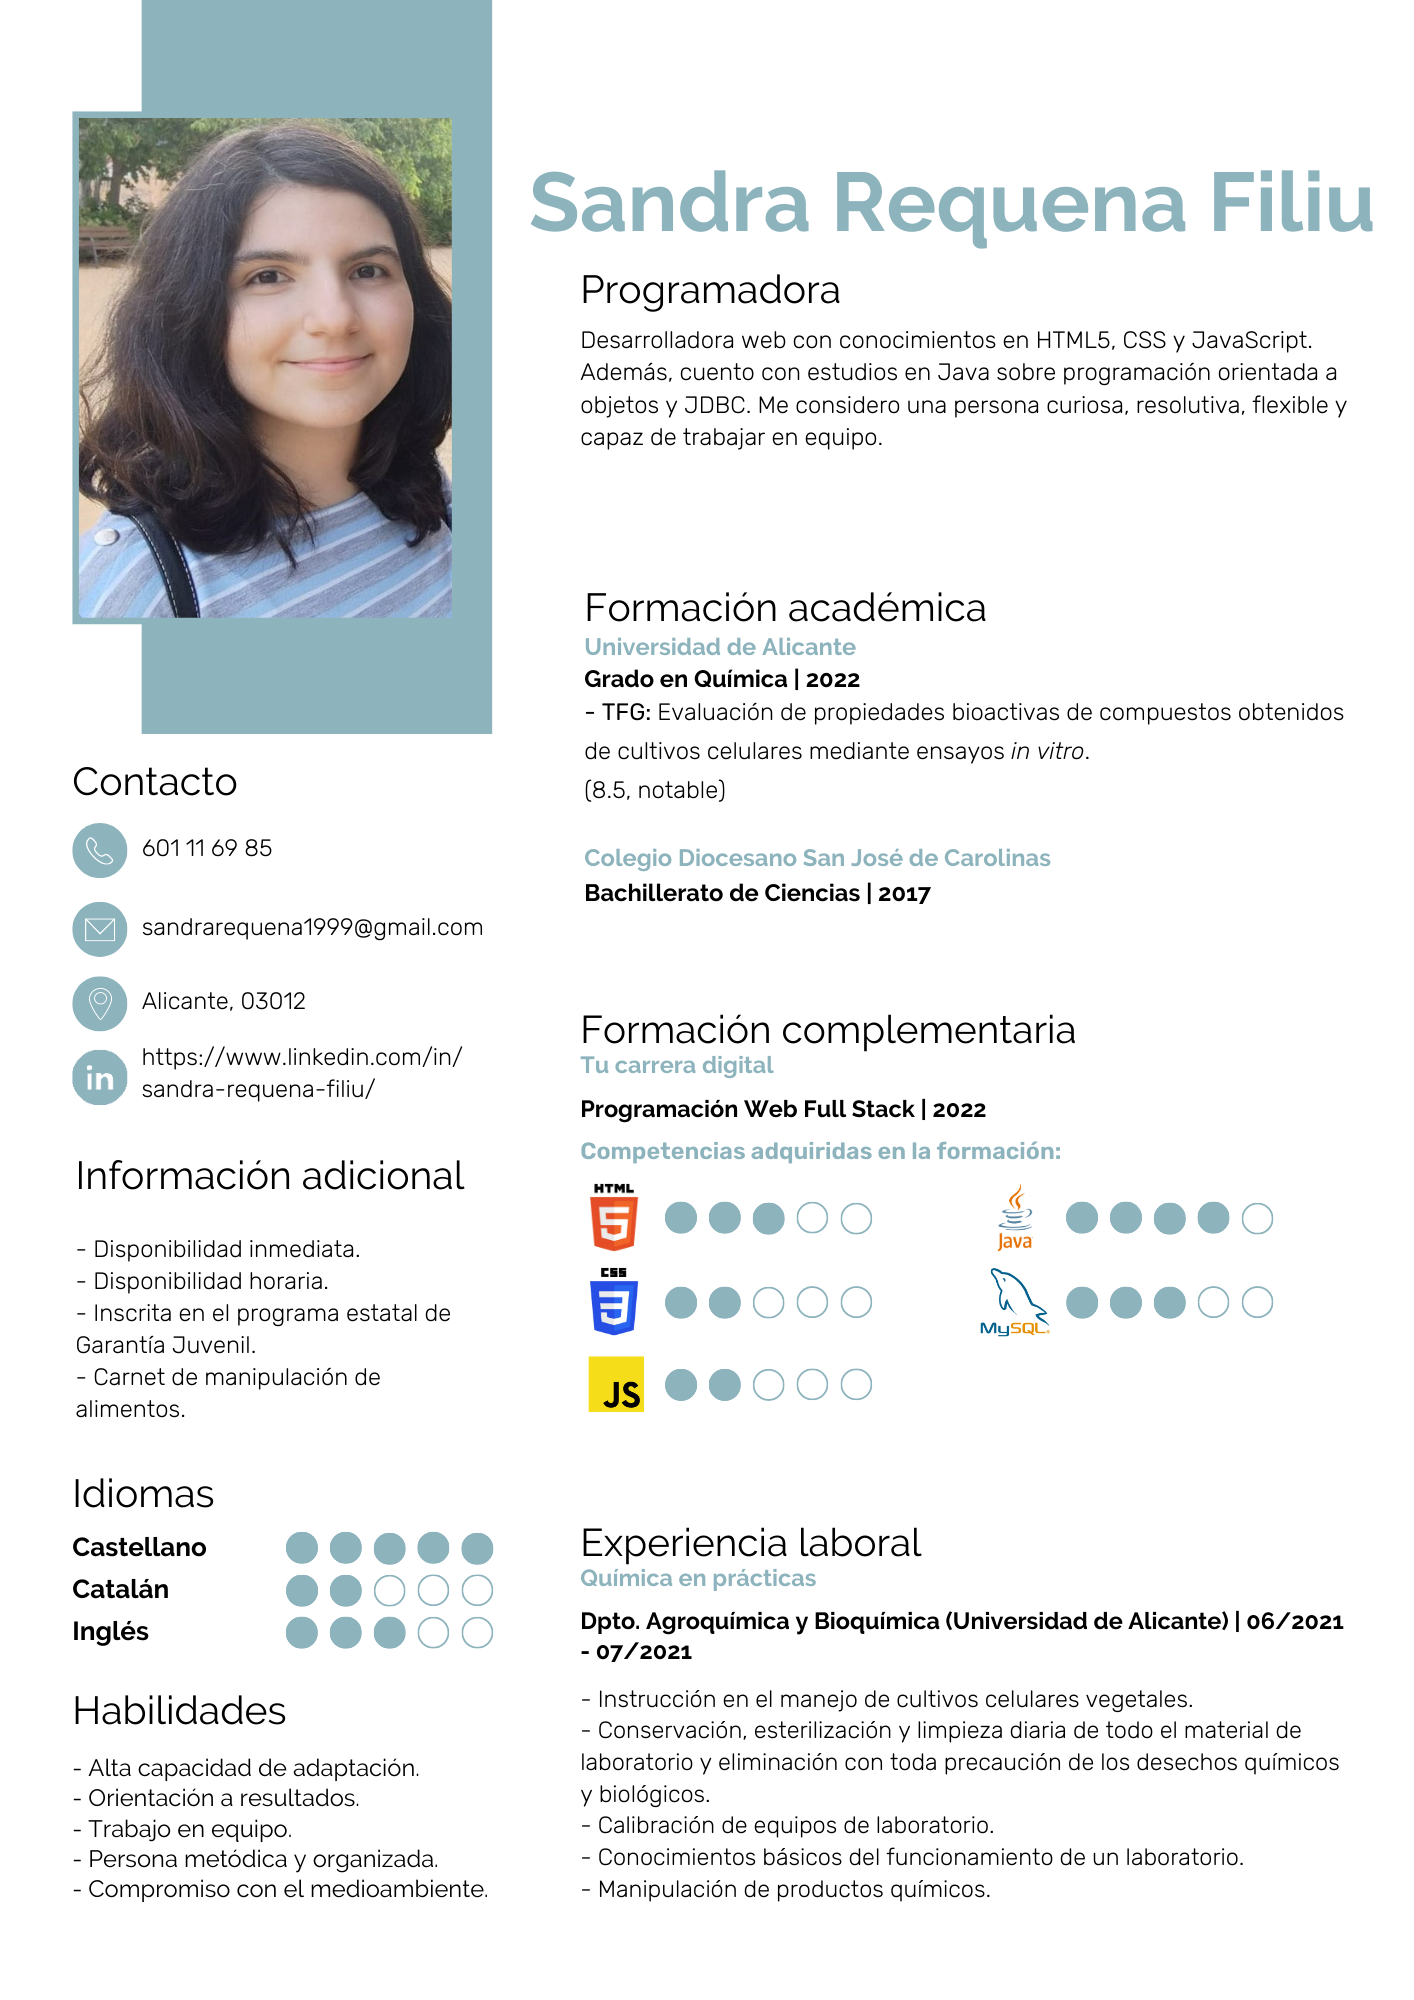
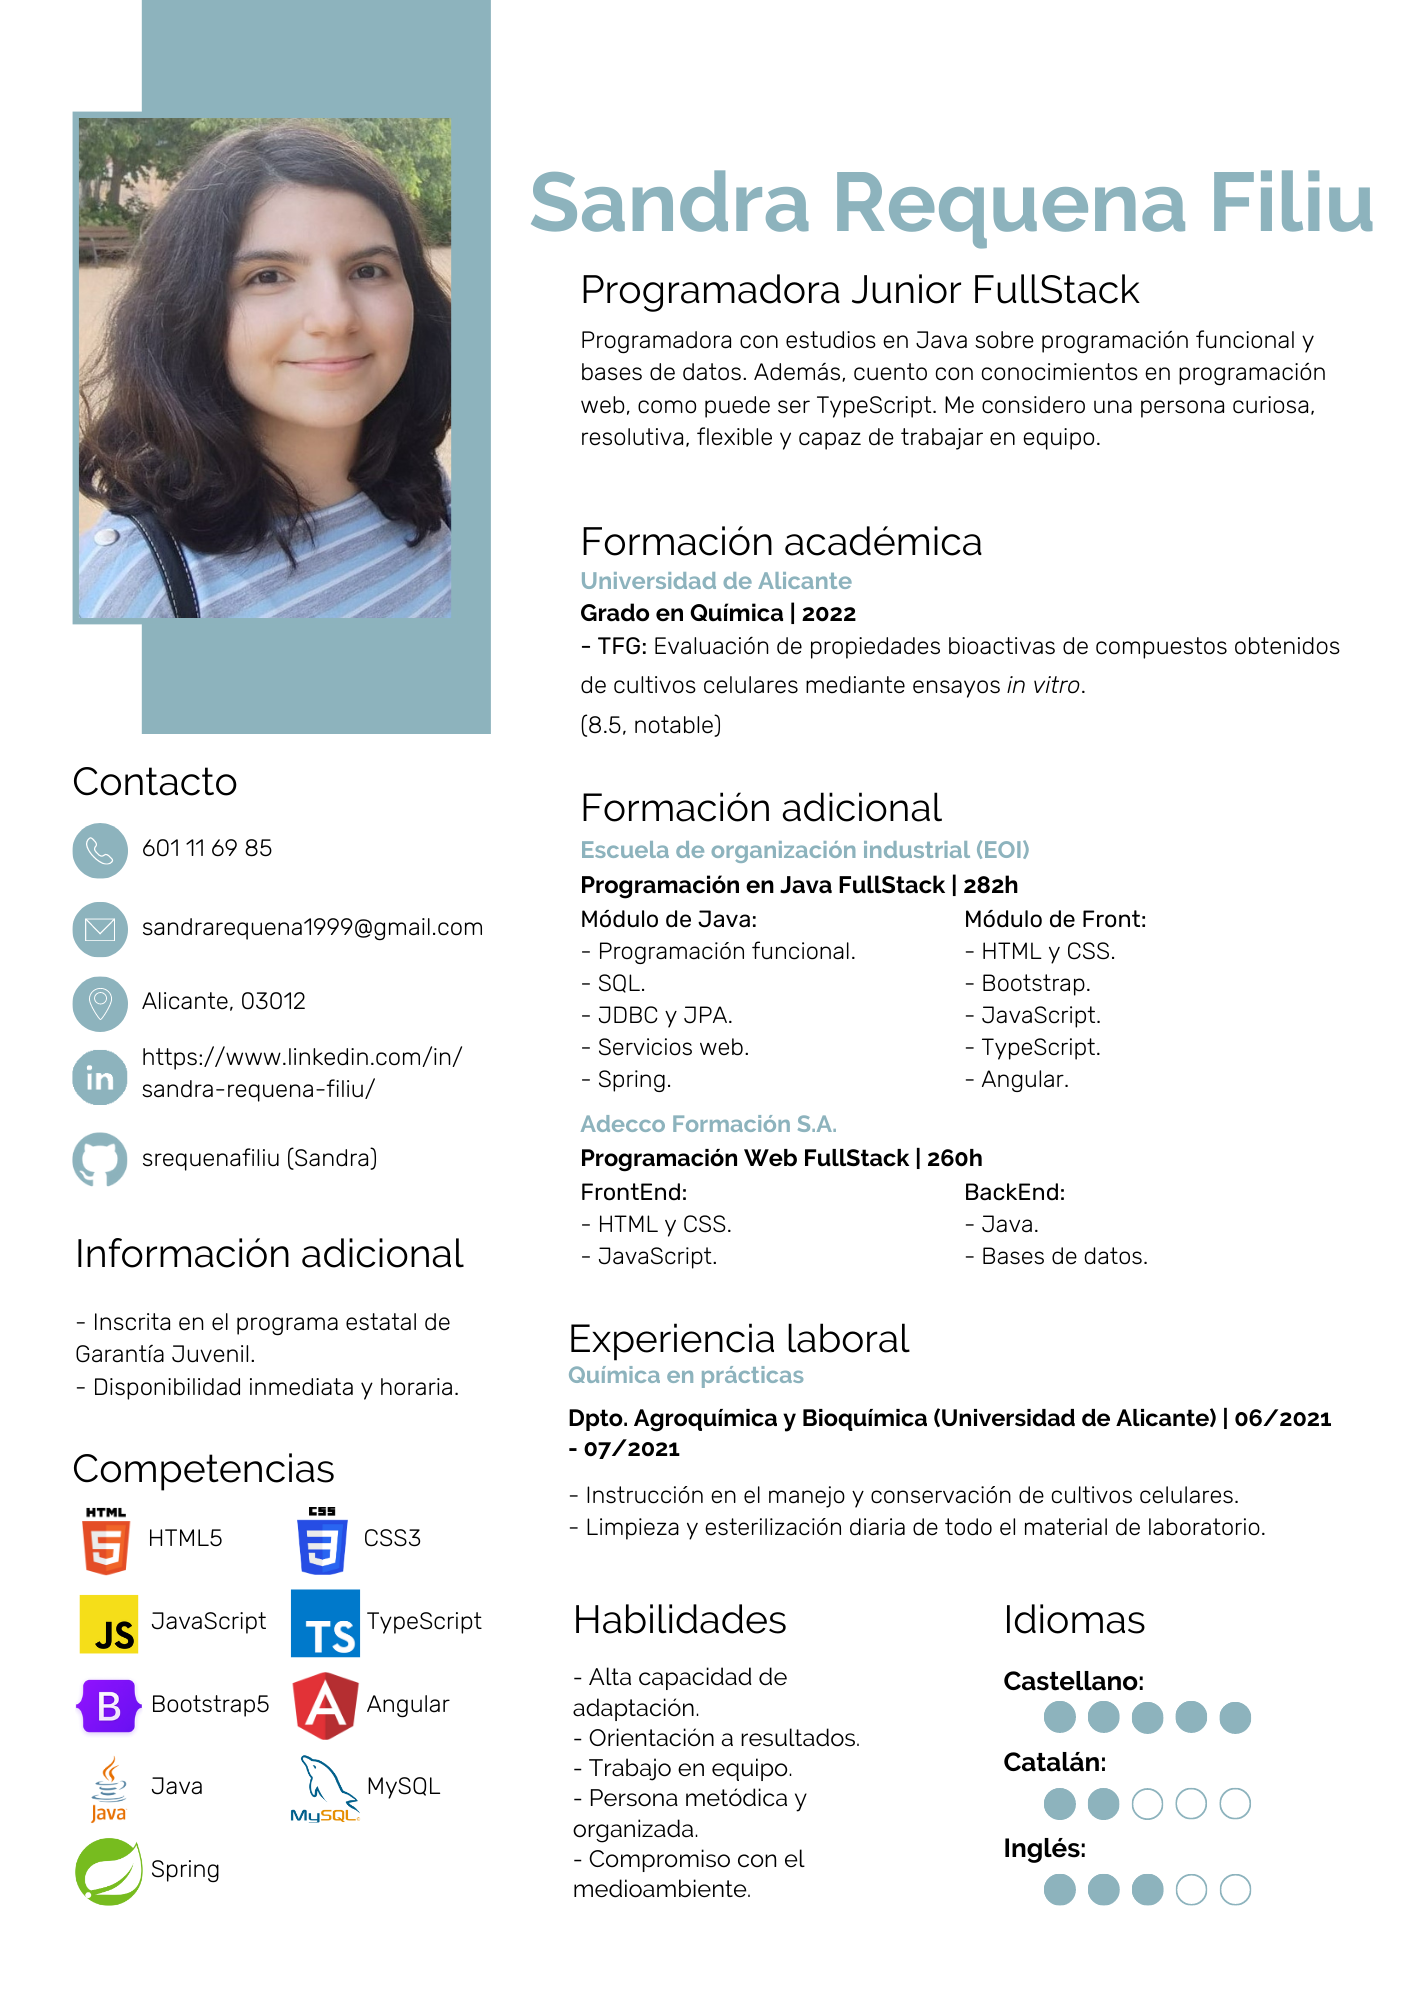
Actualización de datos

Changed region(s): [[0.4045, 0.124, 0.9335, 0.961], [0.0311, 0.62, 0.3423, 0.961], [0.0311, 0.558, 0.2801, 0.589]]

diff --git a/index.html b/index.html
@@ -45,8 +45,8 @@
                 &nbsp;&nbsp;&nbsp;&nbsp;&nbsp;601 11 69 85
             </p>
             <p>
-                <a href="https://github.com/Trafasan" target="_blank"><img src="images/icono_github.png" alt="Icono GitHub"></a>
-                &nbsp;&nbsp;&nbsp;&nbsp;&nbsp;Sandra
+                <a href="https://github.com/srequenafiliu" target="_blank"><img src="images/icono_github.png" alt="Icono GitHub"></a>
+                &nbsp;&nbsp;&nbsp;&nbsp;&nbsp;srequenafiliu (Sandra)
             </p>
             <p>
                 <a href="https://www.linkedin.com/in/sandra-requena-filiu/" target="_blank"><img src="images/icono_linkedin.png" alt="Icono LinkedIn"></a>

diff --git a/enlaces/extra.html b/enlaces/extra.html
@@ -119,7 +119,7 @@
                             Si quiere ver más trabajos míos, puede visitar mi GitHub. Allí encontrará todas mis andanzas en
                             programación web, además de proyectos Java y Maven.
                         </p>
-                        <a href="https://github.com/Trafasan" target="_blank">
+                        <a href="https://github.com/srequenafiliu" target="_blank">
                             Acceder a mi GitHub
                         </a>
                     </div>
